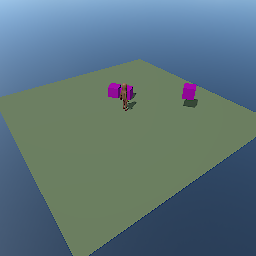
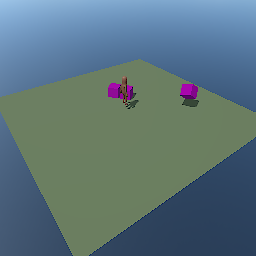
Test MyComponent hotload

Changed region(s): [[0.6875, 0.3125, 0.7812, 0.4062], [0.4688, 0.2812, 0.5625, 0.4375]]

diff --git a/Code/MyComponent.cs b/Code/MyComponent.cs
@@ -5,5 +5,7 @@ public sealed class MyComponent : Component
 
 	protected override void OnUpdate()
 	{
+		Log.Info("Hello Gabz!");
 	}
 }
+